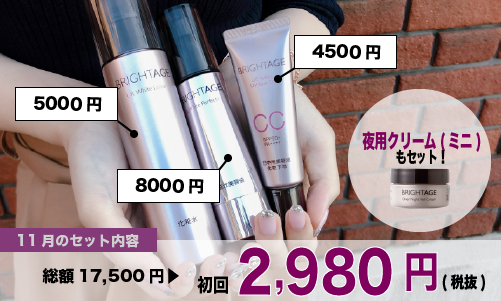
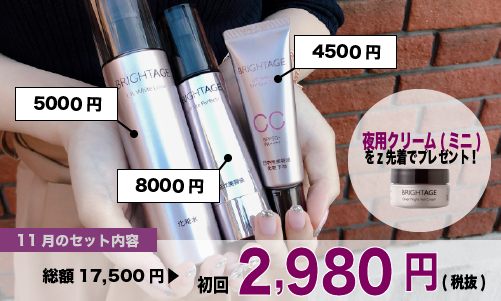
anの修正実施

Changed region(s): [[0.7186, 0.4784, 0.9581, 0.5681]]

diff --git a/beauty_news.html b/beauty_news.html
@@ -184,7 +184,7 @@
 																<p><span class="yellow_line"
 																		style="font-size: 22px;"><strong>「マスク、乾燥するらしいよ」</strong></span><span
 																		style="font-size: 22px;"><strong><br></strong></span><span
-																		style="font-size: 22px;"><strong>乾燥小じわ*、紫外線も怖くない！？<br>51万人が使用した<span
+																		style="font-size: 22px;"><strong>乾燥小じわ*、紫外線も怖くない！？<br>51万人*が使用した<span
 																				style="color: #ff0000;">ロキソニンS</span>の会社開発コスメとは</strong></span>
 																</p>
 															</div>
@@ -296,7 +296,7 @@
 																<p>なんとこの方、<strong><span
 																			style="font-size: 20px; color: #ff0000;"><span
 																				style="font-size: 25px;">53</span><span
-																				style="font-size: 18px;">サイ</span></span>なんですって</strong>。
+																				style="font-size: 18px;">歳</span></span>なんですって</strong>。
 																</p>
 																<p>&nbsp;</p>
 																<p>さらに<span style="font-size: 16px;">すっぴんもどーん。</span>
@@ -795,7 +795,7 @@
 															<div class="elementor-text-editor elementor-clearfix">
 																<p>&nbsp;</p>
 																<p><span data-sheets-value="{"
-																		data-sheets-userformat="{">そんな夢のような願いをかなえてくれるエイジングケア*アイテム、<span
+																		data-sheets-userformat="{">そんな夢のような願いにアプローチしてくれるエイジングケア*アイテム、<span
 																			style="font-size: 18px;"><strong>誰か教えて。</strong></span></span>
 																</p>
 																<p>&nbsp;</p>
@@ -936,7 +936,7 @@
 															<div class="elementor-text-editor elementor-clearfix">
 																<p>&nbsp;</p>
 																<p><span data-sheets-value="{"
-																		data-sheets-userformat="{">そんなビッグ製薬会社の<span
+																		data-sheets-userformat="{">そんな第一三共ヘルスケアの製薬会社<span
 																			style="color: #ff0000;"><strong>オリジナル成分である</strong></span><span
 																			style="font-size: 18px; color: #ff0000;"><strong>「トラネキサム酸」</strong></span>が</span>
 																</p>
@@ -1061,12 +1061,15 @@
 															<div class="elementor-text-editor elementor-clearfix">
 																<p>&nbsp;</p>
 																<p><span data-sheets-value="{"
-																		data-sheets-userformat="{">ブライトエイジはシミ対策*を行えるだけではなく、さらに<strong>効能評価試験</strong>を実施しており、</span>
+																		data-sheets-userformat="{">ブライトエイジはシミ対策*にはもちろん、<strong>効能評価試験</strong>を実施しており、</span>
 																</p>
 																<p>&nbsp;</p>
 																<p><span data-sheets-value="{"
 																		data-sheets-userformat="{"><span
 																			class="yellow_line"><strong>乾燥による小じわ*を目立たなくするということも実証</strong></span>されているんです！！</span>
+																</p>
+																<p style="font-size: medium; color: #000000;"><span
+																		style="font-family: Arial; font-size: 10px; white-space: pre-wrap; color: #808080;">＊乳液状美容液が該当</span>
 																</p>
 																<p>&nbsp;</p>
 																<p><span
@@ -1692,7 +1695,7 @@
 																				<div class="elementor-widget-container">
 																					<div
 																						class="elementor-text-editor elementor-clearfix">
-																						<p>化粧水と乳液状美容液を1本使い切ってのレビューです。<br>高保湿・美白を兼ね揃えたスキンケアということで試してみました。
+																						<p>化粧水と乳液状美容液を1本使い切ってのレビューです。<br>高保湿・美白を兼ね揃えたスキンケアということで使ってみました。
 																						</p>
 																						<p><br>付け心地が重ためなので好みは別れると思いますが、<br><span
 																								class="yellow_line"><strong>エイジングケア*に力を入れたいって人にはベストなアイテムだと思いました。</strong></span>
@@ -2010,7 +2013,7 @@
 																<p><strong>&nbsp;</strong></p>
 																<p><strong><span
 																			style="background-color: #ffff99;">2,980円<span
-																				style="font-size: 14px;">（税抜）</span></span></strong>でGETできるのだそうです！
+																				style="font-size: 14px;">（税抜）</span></span></strong>で始めることができるそうです！
 																</p>
 																<p>&nbsp;</p>
 															</div>
@@ -2057,7 +2060,7 @@
 																</p>
 																<p>&nbsp;</p>
 																<p>ブライトエイジシリーズの中でも評価の高い化粧水と乳液状美容液に加えて<span
-																		class="yellow_line"><strong>高機能CCクリームと数量限定先着50000名様に夜用クリーム(ミニ)</strong></span>がセット!
+																		class="yellow_line"><strong>高機能CCクリームがセットで、更に数量限定先着50000名様に夜用クリーム（ミニ）をプレゼント！</strong></span>
 																</p>
 															</div>
 														</div>
@@ -2105,7 +2108,7 @@
 														<div class="elementor-widget-container">
 															<div class="elementor-text-editor elementor-clearfix">
 																<p>なんとこのセットになるCCクリーム、<span
-																		class="yellow_line"><strong>4500円もする高級品！</strong></span>
+																		class="yellow_line"><strong>4500円(税抜)もする高級品！</strong></span>
 																</p>
 																<p>&nbsp;</p>
 																<p>全部合わせると</p>
@@ -2346,8 +2349,8 @@
 																		class="yellow_line">すごく優秀なアイテムだったのです！！</strong>
 																</p>
 																<p>&nbsp;</p>
-																<p>実はこのCCクリームもト<span
-																		style="color: #f5185e;"><strong>ラネキサム酸を配合した商品！</strong></span>
+																<p>実はこのCCクリームも<span
+																		style="color: #f5185e;"><strong>トラネキサム酸を配合した商品！</strong></span>
 																</p>
 																<p>&nbsp;</p>
 																<p>しかも<span
@@ -2500,6 +2503,9 @@
 																		style="font-family: Arial; font-size: 10px; white-space: pre-wrap; color: #808080;">＊シミ：メラニンの生成を抑え、シミ・そばかすを防ぐ。</span>
 																</p>
 																<p style="font-size: medium; color: #000000;"><span
+																		style="font-family: Arial; font-size: 10px; white-space: pre-wrap; color: #808080;">＊51万人：2020年1月末時点</span>
+																</p>
+																<p style="font-size: medium; color: #000000;"><span
 																		style="font-size: 10px; color: #808080;"><span
 																			style="font-family: Arial; white-space: pre-wrap;">＊小じわ：乾燥による小じわを目立たなくする/効能評価試験済み/乳液状美容液が該当</span><span
 																			style="font-family: Arial; white-space: pre-wrap;"><br></span></span>
@@ -2513,6 +2519,9 @@
 																		style="font-size: 10px; color: #808080;"><span
 																			style="font-family: Arial; white-space: pre-wrap;">＊エイジングケア：年齢に合わせたケアのこと</span><span
 																			style="font-family: Arial; white-space: pre-wrap;"><br></span></span>
+																</p>
+																<p style="font-size: medium; color: #000000;"><span
+																		style="font-family: Arial; font-size: 10px; white-space: pre-wrap; color: #808080;">＊シミ対策：乳液状美容液が該当</span>
 																</p>
 																<p style="font-size: medium; color: #000000;"><span
 																		style="font-size: 10px; color: #808080;"><span
